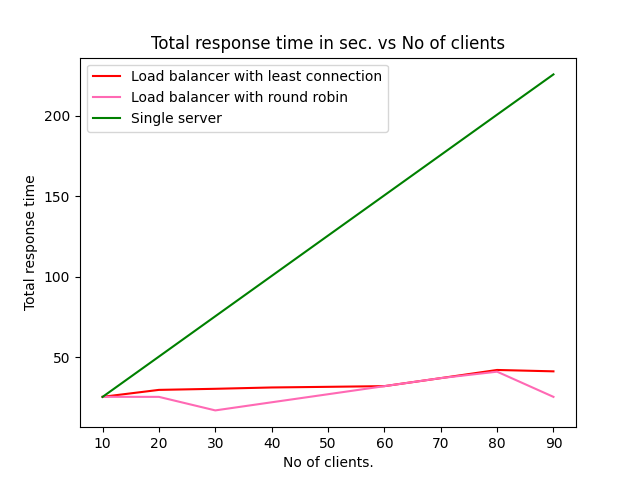
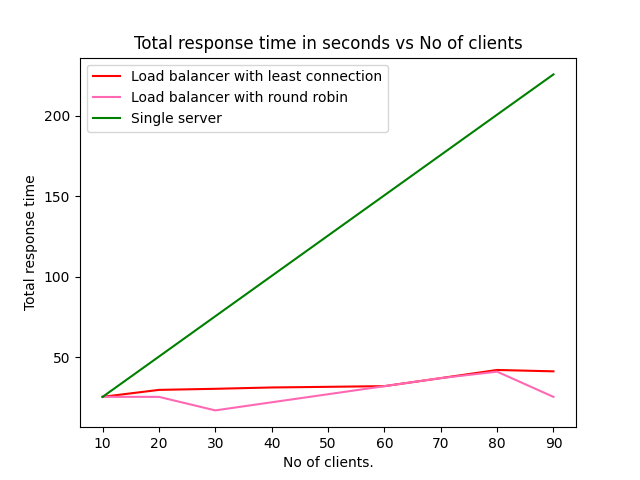
Add scaling fig

Changed region(s): [[0.2188, 0.0625, 0.8125, 0.125]]

diff --git a/graph.py b/graph.py
@@ -3,9 +3,33 @@ import csv
 from matplotlib import pyplot as plt
 
 
+def scaling_plot(data):
+    plt.clf()
+
+    fig, ax1 = plt.subplots()
+    fig.suptitle("No of replicas vs Total number of successfull requests vs Time in seconds")
+
+    ax2 = ax1.twinx()
+
+    x_points = [int(i[0])*4 for i in data]
+    y_points_replicas = [int(i[1])-4 for i in data]
+    y_points_reqs = [int(i[2]) for i in data]
+
+    ax1.plot(x_points, y_points_replicas, color="blue", label="Total number of replicas")
+    ax2.plot(x_points, y_points_reqs, color="hotpink", label="Total number of successfull requests")
+
+    ax1.set_xlabel("Time in seconds")
+    ax1.set_ylabel("No of replicas.")
+    ax2.set_ylabel("No of requests.")
+
+    ax1.legend(loc='upper left')
+    ax2.legend(loc='lower left')
+    plt.savefig(f"scaling.png")
+
+
 def total_resp_time(lblc_data, lbrr_data, ss_data):
     plt.clf()
-    plt.title("Total response time in sec. vs No of clients")
+    plt.title("Total response time in seconds vs No of clients")
     plt.xlabel("No of clients.")
     plt.ylabel("Total response time")
     x_points = [i[0] for i in lblc_data]
@@ -54,7 +78,13 @@ with open('single_server_data.csv') as f:
     ss_data = list(data)
     print(ss_data)
 
+with open('scaling_data.csv') as f:
+    data = csv.reader(f)
+    s_data = list(data)
+    print(s_data)
+
 total_resp_time(lblc_data, lbrr_data, ss_data)
 number_of_replicas(lblc_data, lbrr_data)
+scaling_plot(s_data)
 
 

diff --git a/number_of_containers.py b/number_of_containers.py
@@ -1,0 +1,26 @@
+from send_requests import send_requests, get_success
+import subprocess
+from threading import Thread
+import time
+
+bash_command = "docker ps | wc -l"
+
+def generate_data():
+    data = []
+    start = time.time()
+    data.append([0, 0])
+    for i in range(100):
+        time.sleep(4)
+        res = subprocess.run(bash_command, shell=True, stdout=subprocess.PIPE, stderr=subprocess.PIPE, text=True)
+        res = res.stdout
+        data.append([i, int(res), get_success()])
+        print(i*4, int(res), get_success())
+    for i in data:
+        print(data)    
+
+
+thrd = Thread(target=generate_data)
+thrd.start()
+success, t = send_requests(300)
+print(success, t)
+thrd.join()

diff --git a/send_requests.py b/send_requests.py
@@ -10,6 +10,9 @@ def reqs():
     if res.status_code == 200:
         success += 1
 
+def get_success():
+    return success
+
 def send_requests(n):
     global success
     success = 0
